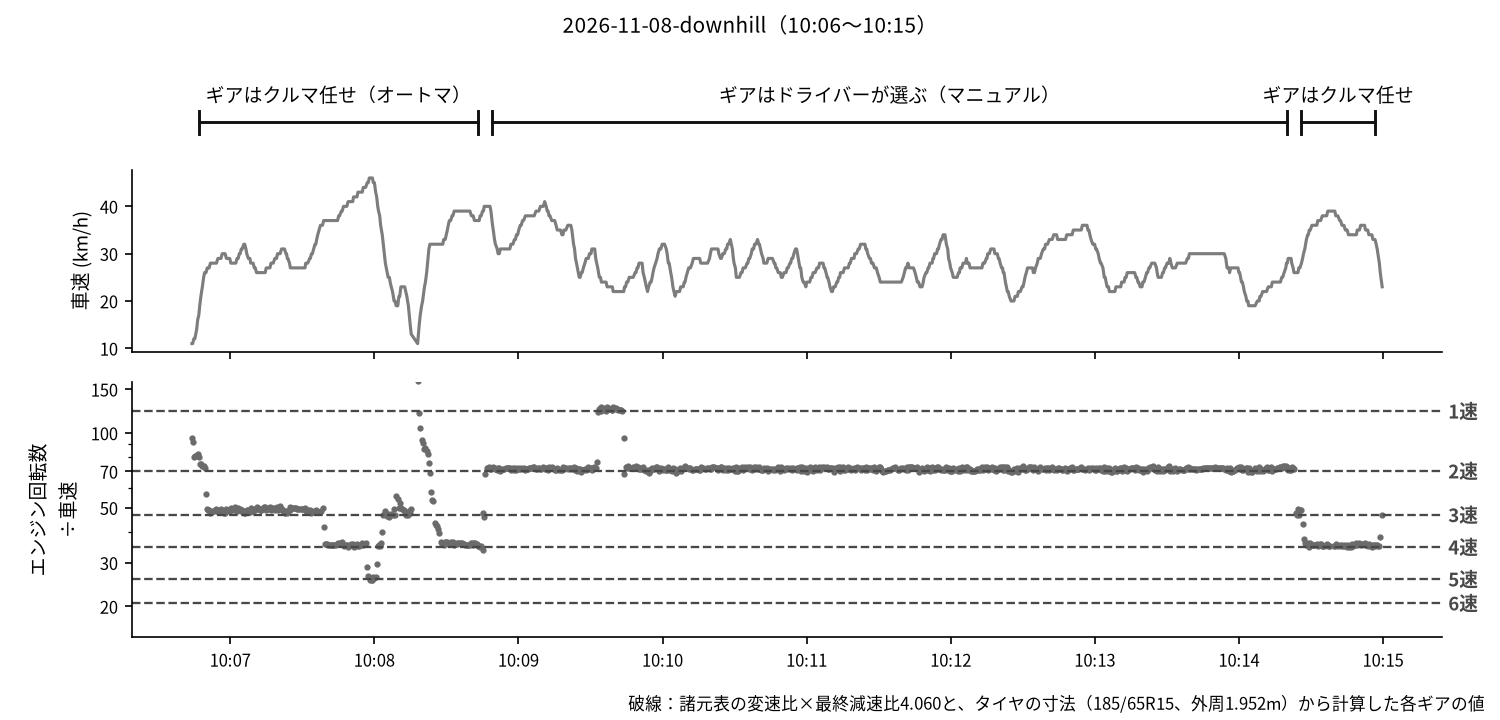
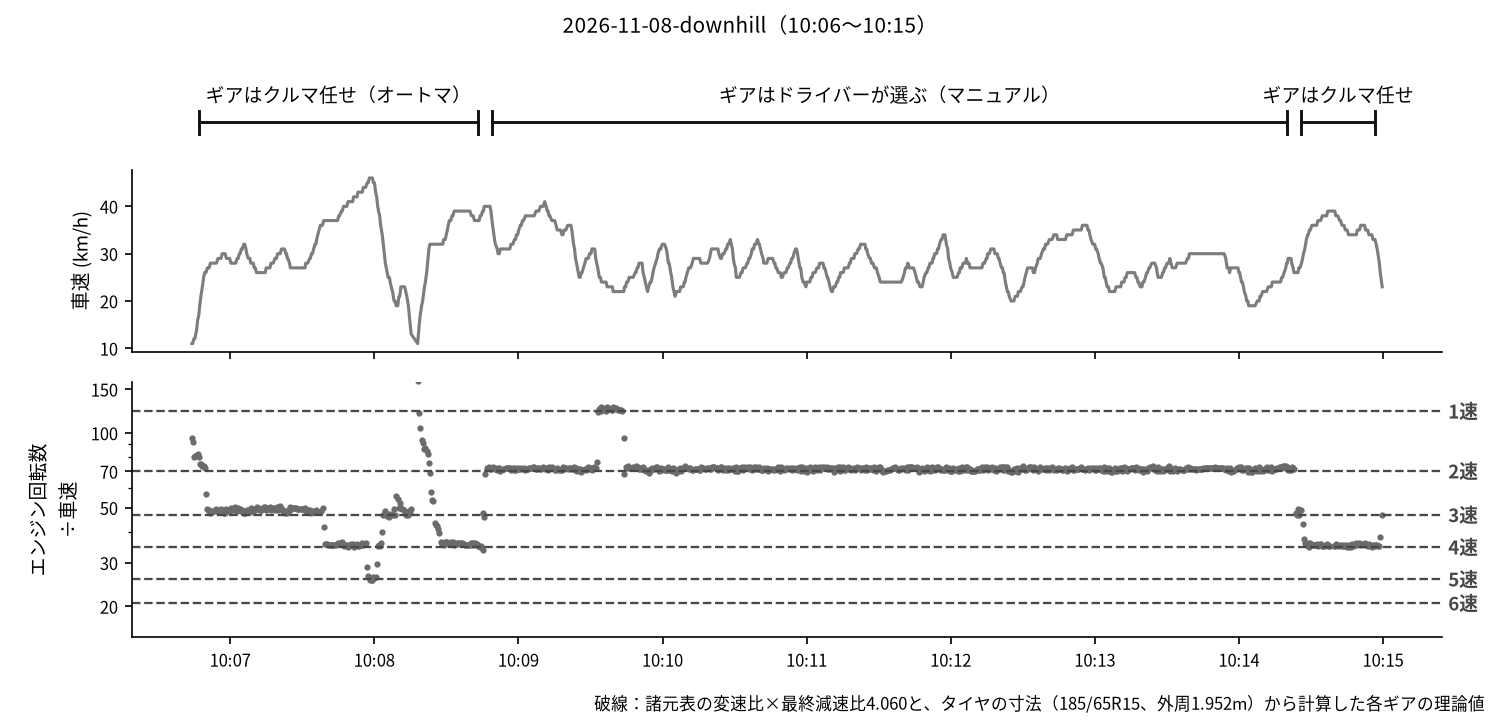
yamane: 1.7を「取れたデータは理論値と合っているか？」に組み直し、見出しを短くする
- 1.7の肝を「諸元表から計算した理論値と実測値が合っていた」にして、理論値→実測値→街乗り・峠の登り・峠の下り・高速→答え合わせの順に組み直した
- 街乗り（10/17）と高速（10/31）のギアの図を足し、タイヤの大きさを逆算する項と10/18夜の図を消した
- 破線の注を「理論値」に揃えて、分布図・登り・下りの図を描き直した
- 節タイトルを短くした（1.1「はじめに」、1.3「クルマに変なセンサーをつけて走ってもいいの？」、1.7.1〜1.7.7）
- 骨子（docs/yamane_outline.md）を新しい構成に合わせた

Changed region(s): [[0.3987, 0.9472, 0.9813, 1.0]]

diff --git a/docs/yamane_outline.md b/docs/yamane_outline.md
@@ -30,7 +30,9 @@
 
 > **タイトル**：章＝「OBD2でクルマの走行データを可視化する！　データ取得までの道のり」、「はじめに」の見出し＝「ガソリン使って、走行データを集める」。主題を「採点」→「走行データを取ること自体の難しさ（＝データがあることのありがたみ）」に寄せ、採点はch6の軽い考察に格下げした。
 
-## 1. はじめに：マツダのデミオに乗って、走行データを集める！（2）【本文あり】
+## 1. はじめに（2）【本文あり】
+
+- 2026-11-08に見出しを「はじめに：マツダのデミオに乗って、走行データを集める！」から「はじめに」だけにした
 
 - 原稿の「はじめに」は書き終わっている（「使う道具」は2026-11-03に2.へ移した）
 - 残り：デミオの基本情報の表（年式・型式など、車検証から）。ライブラリのバージョンは
@@ -41,7 +43,8 @@
 ## 2. 免責事項
 - 2026-11-03に章末の囲みから移して節にした。試した環境の限定、運転中にスマホを見ない・操作しない、まねして生じた事故等に責任を負わない
 
-## 3. OBD2をつけて走ってもいいの？：道路交通法を確かめる
+## 3. クルマに変なセンサーをつけて走ってもいいの？
+- 2026-11-08に見出しを「OBD2をつけて走ってもいいの？：道路交通法を確かめる」から変えた
 - 2026-11-03に「はじめに」の最後から移して節にした。道路交通法第71条第5号の5・第70条（e-Gov・警察庁で裏取り済み）
 
 ## 4. OBD2で走行データを取得するまで（2）
@@ -121,25 +124,36 @@
 - 4つの失敗のうち、説明がついたもの・つかないもの（10/31 10:20の4項目は未解明）
 - [obd2_csv.md](../../techbookfest21/docs/obd2_csv.md)の「7. 記録前チェックリスト」から主な項目
 
-## 7. ちゃんと取れたデータを可視化する（5）
+## 7. 取れたデータは理論値と合っているか？（11）
 
-### 街乗り（1）
-- 10/17の街中（約23分）、10/18夜の街乗り（約11分）
+- 2026-11-08に組み直した。肝は「諸元表から計算したギアごとのエンジン回転数÷車速（理論値）と、走行ログの実測値が合っていた」。
+  理論値 → 実測値 → 場面ごと（街乗り・峠の登り・峠の下り・高速）→ 答え合わせ、の順
+- 組み直す前の「街乗り」「高速道路」「峠の登り・下り」「回転数÷車速でギアを当てる」「おまけ：タイヤの大きさまで逆算できる」と、
+  10/18夜の街乗りの図は消した（本文は`articles/yamane.re`のgit履歴に残っている）
+- 10/17・10/31のログは記録テストより前、11/8はテストで分かった作法で取ったもの、と節の頭に書く
 
-### 高速道路（1）
-- 現状、クルマのデータが残った高速区間は10/31 08-37-05の08:45〜08:57・09:08〜09:13だけ
-- TODO：火曜（11/3）に高速も取り直して補うかは著者判断
+### 理論値を計算する
+- エンジン回転数÷車速＝変速比×最終減速比×1000÷(60×タイヤの外周)。ギアのイメージ図2枚、装備諸元表（2014年、13S 2WD 6EC-AT）の切り抜き、
+  1〜6速の計算式の表（122.3・70.2・46.7・34.7・25.7・20.6）
 
-### 峠の登り・下り（1）
-- 2026-11-08に登りと下りを続けて取った（`obd_log/2026-11-08 09-33-39.csv`・`10-04-39.csv`）。登りの図は10/17から11/8に差し替えた
-- 登り（Dレンジ、09:55〜10:02）と下り（マニュアルモード2速・一瞬1速、10:06〜10:15）の表：車速はほぼ同じで、下りは回転数が高く負荷が低い
+### 実測値を求める
+- `merge_asof`で回転数と車速を組にする（`../techbookfest21/scripts/obd/gear_ratio.py`）。分布が6つの山に分かれる図（11/8の2本）
 
-### 回転数÷車速でギアを当てる（1.5）
-- 2026-11-08に新設。回転数÷車速＝変速比×最終減速比×1000÷(60×タイヤの外周)。変速比はマツダの装備諸元表（2014年、13S 2WD 6EC-AT）
-- `merge_asof`で回転数と車速を組にする（`../techbookfest21/scripts/obd/gear_ratio.py`）。分布が6つの山に分かれる図、下りのギアの時系列の図
+### 街乗り：1速から6速まで
+- 10/17の街中。止まるたびに1速から上がっていくギアの時系列の図
 
-### おまけ：タイヤの大きさまで逆算できる（0.5）
-- 逆算した直径は約600〜610mmで、185/65R15の寸法（622mm）より約3%小さい。OBD2の車速はGPSより約1%低い（10/17）ので車速のずれでは説明できない
+### 峠の登り：ほぼ3速
+- 11/8の登り（ギアはクルマ任せ）。図2枚（走行の図・ギアの図）
+
+### 峠の下り：マニュアルで2速固定
+- 11/8の下り。フェード現象・ベーパーロック現象（脚注、JAF）で、マニュアルモードで2速を選んだ。図2枚（登りと同じ形）
+
+### 高速道路：ずっと6速
+- 10/31の高速区間。巡航中はほぼ6速のまま、回転数がほとんど上下しない
+
+### 答え合わせ
+- 表：ギアごとの理論値と実測値（中央値）とずれ（+1.6〜+3.8%）。6つとも同じ向きにずれる＝変速比の並びはカタログどおり
+- ずれのうち約1%はOBD2の車速がGPSより低めなこと（10/17）、残りの約2%はタイヤ（つぶれ・すり減り）
 
 > **2026-11-08に「OBDに運転を採点させてみる」の節を、著者の判断で消した。** 消す前の本文（「加速 (g)」は車速から
 > 計算された値で相関0.98、Teslaの0.3gとの比較、1秒平均・0.15gの基準、区間ごとの表と回転数の分布の図）は、
